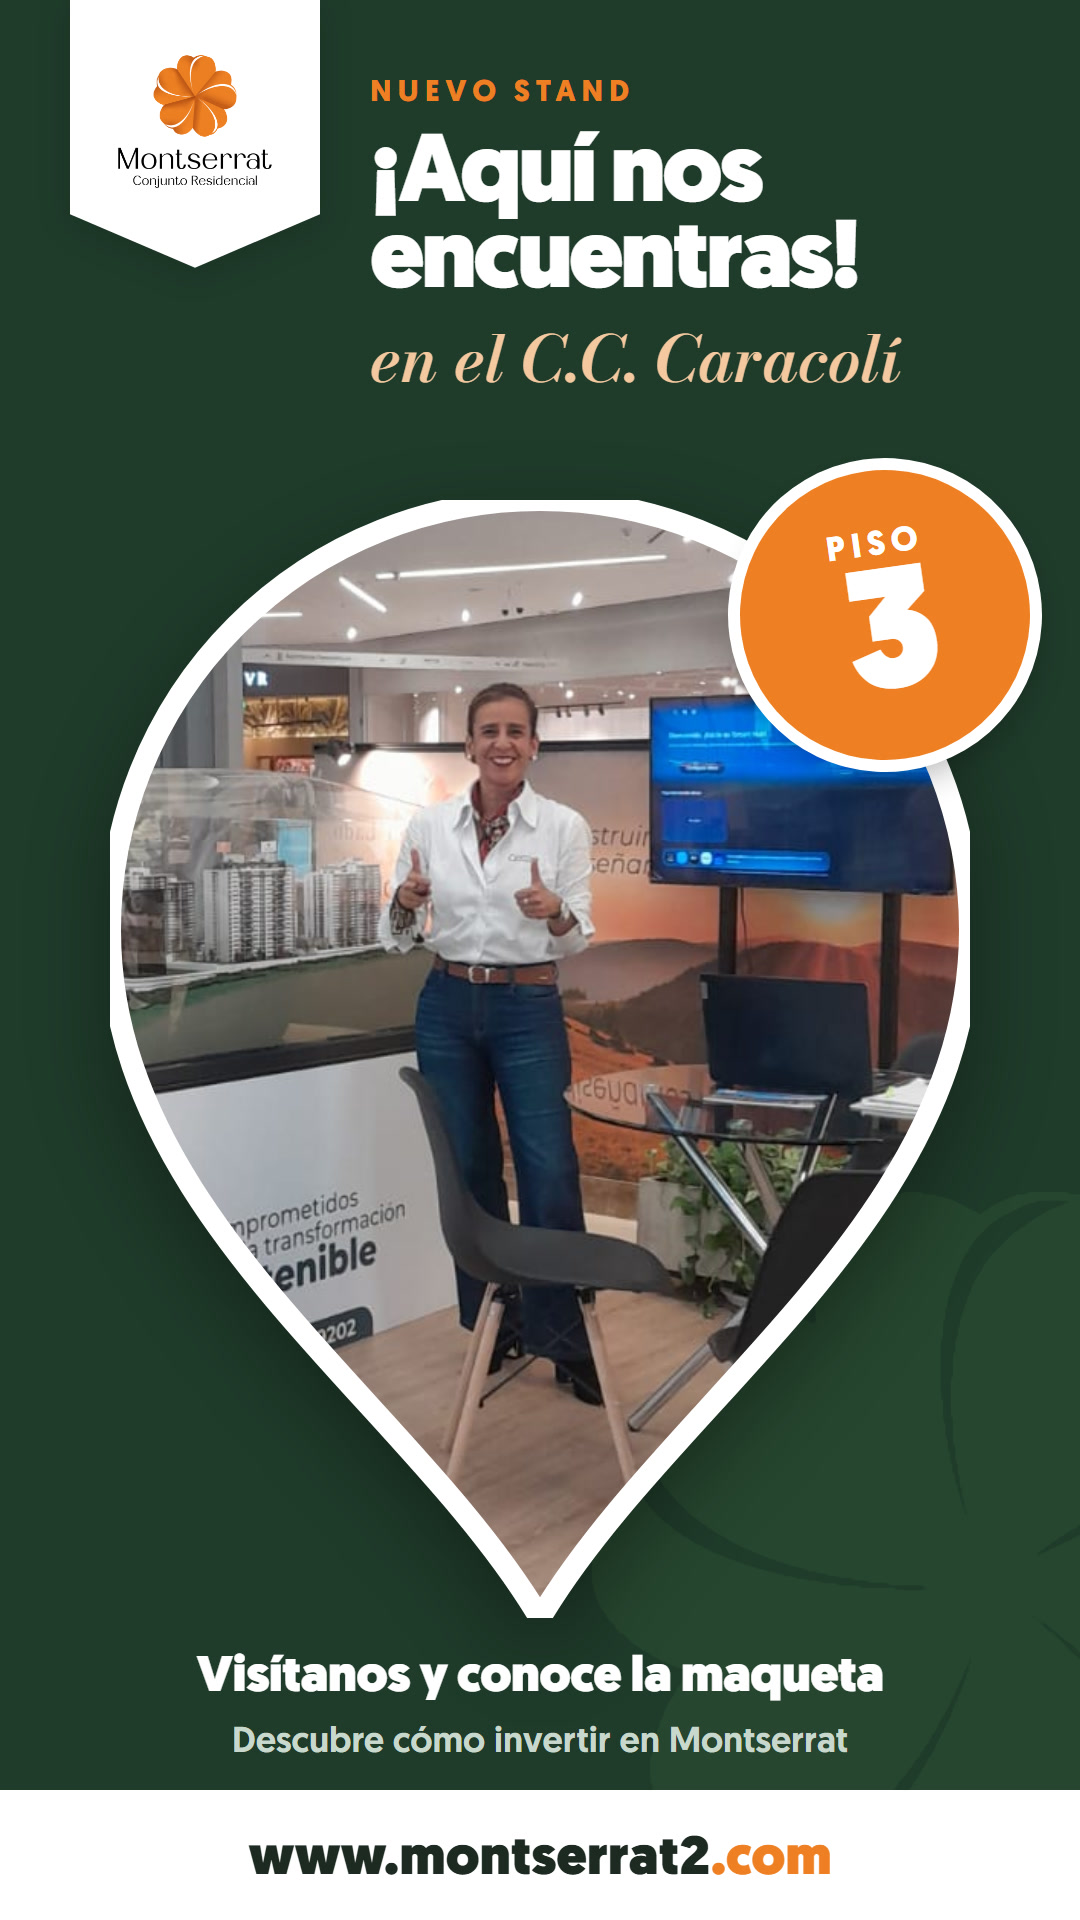
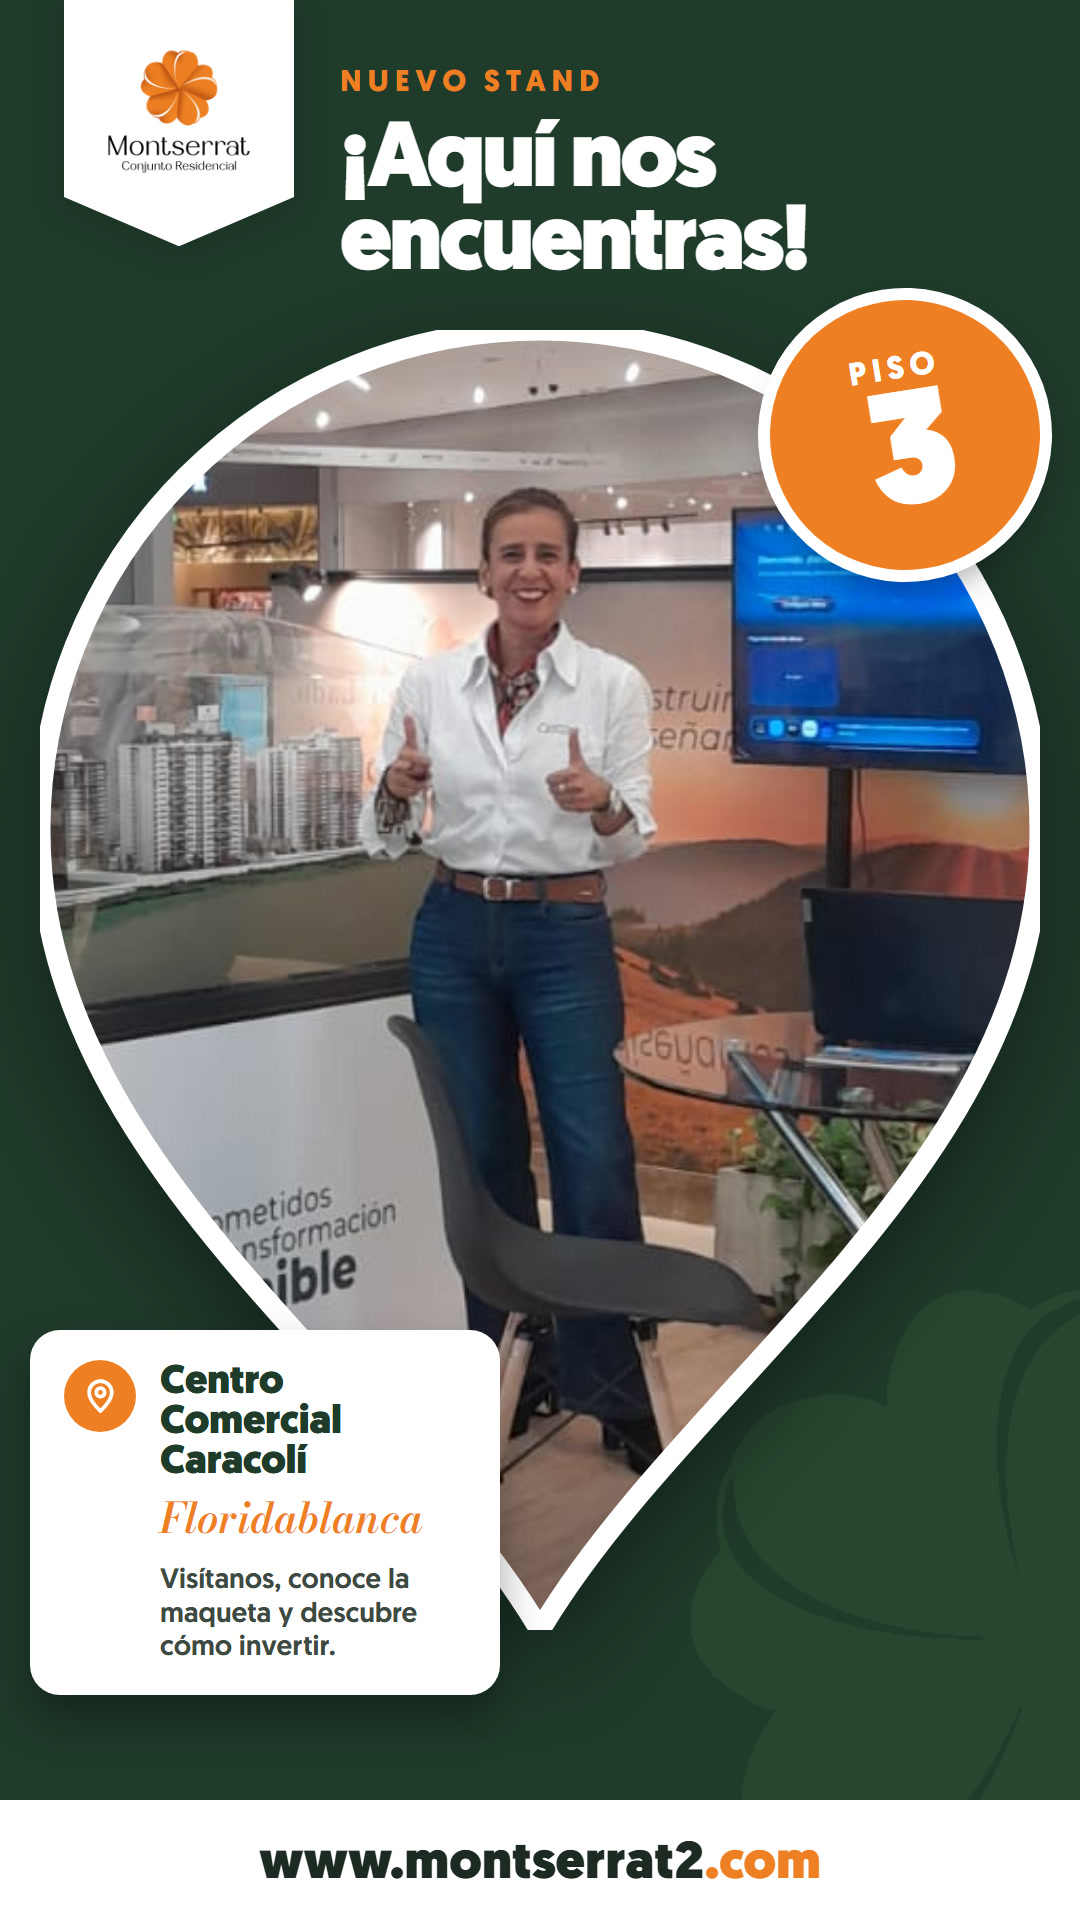
Montserrat stand B: foto mas grande y elementos superpuestos

diff --git a/montserrathorariostand/index.html b/montserrathorariostand/index.html
@@ -62,7 +62,7 @@ td.no{color:var(--muted)}
 <footer>Montserrat Etapa II · Azulado Inmobiliario</footer>
 <div class="lb" id="lb" hidden role="dialog" aria-modal="true"><div class="bar"><div class="t" id="lt"></div><button id="lx" type="button">Cerrar ✕</button></div><div class="st" id="ls"><img id="li" alt=""></div></div>
 <script>
-var V='?v=2';
+var V='?v=3';
 var S=[
  {t:'Letrero de horario',m:'Entrada de la sala de ventas · 60 × 80 cm (medida por confirmar) · lunes a sábado 9:00 a. m. a 6:00 p. m., domingos y festivos 10:00 a. m. a 5:00 p. m.',c:'tall',f:['horario_b','horario_0.6x0.8'],n:['Propuesta B · Puertas abiertas','Propuesta A · Clásica'],q:['nueva','']},
  {t:'Stand Centro Comercial Caracolí',m:'Piso 3 · foto real del stand · historia de Instagram 1080 × 1920 y post 1080 × 1350',c:'tall',f:['stand_b_historia','stand_b_post','stand_historia','stand_post'],n:['Propuesta B · Historia','Propuesta B · Post','Propuesta A · Historia','Propuesta A · Post'],q:['nueva','nueva','','']}
